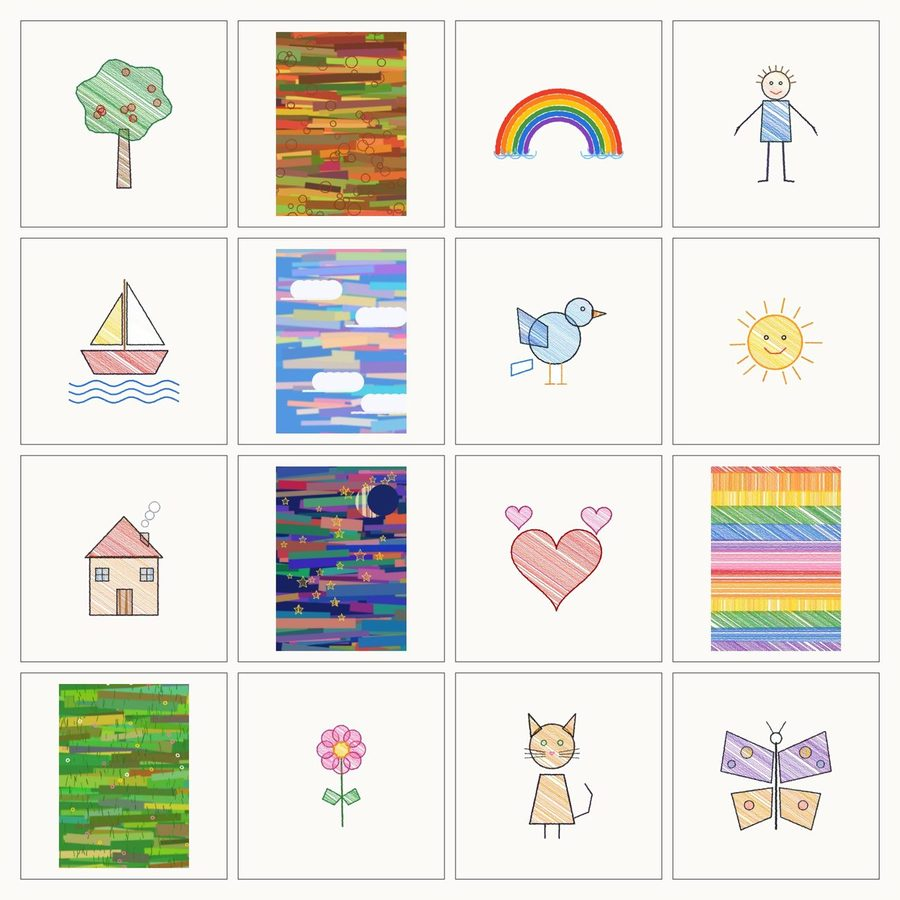
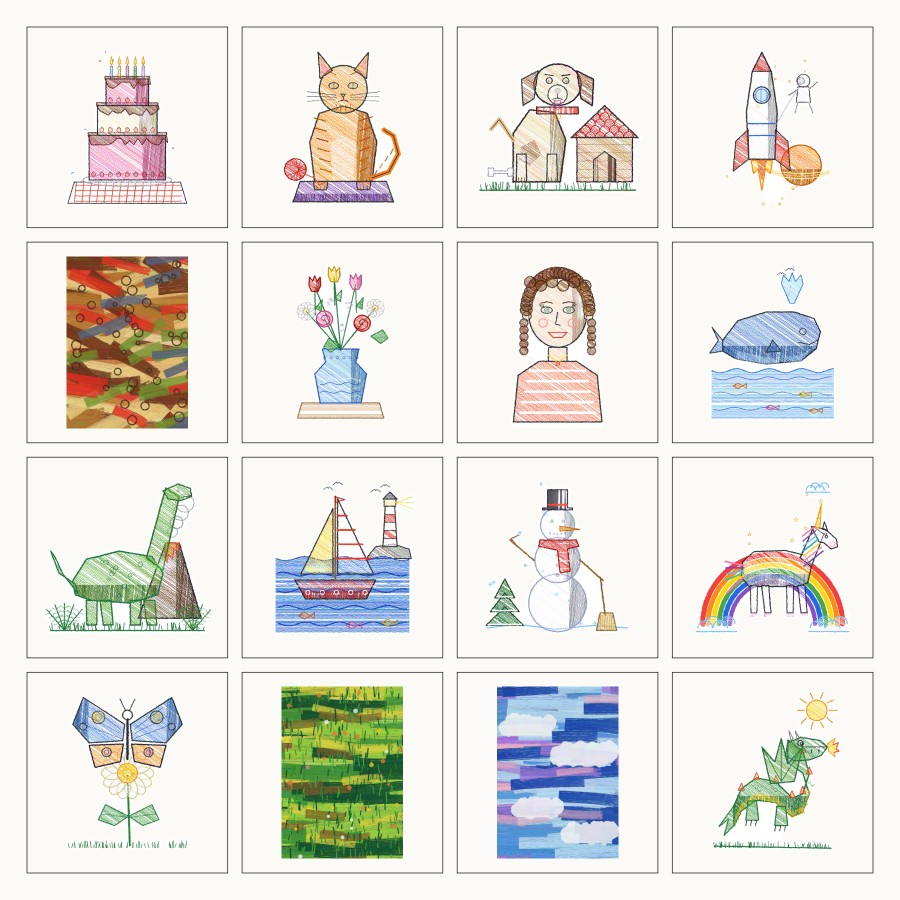
Accueil : les sept styles illustrés avec les dessins de la vidéo ; toile conseillée mieux dimensionnée
- les images d'exemple des sept styles sont recomposées avec les dessins
  de la vidéo « ordinateur » (dragon, voilier et phare, licorne, château,
  fusée…, pages peintes), tous les dessins posés, toiles Cultura ;
- toile conseillée : la surface idéale compte aussi la place de toutes
  les découpes (et plus seulement le papier de fond, que la peinture
  complète) ; les styles à format propre prennent la toile Cultura la
  plus proche sans jamais la prendre plus petite que leur besoin.

Claude-Session: https://claude.ai/code/session_016gFESkuH8R1BfGgUe59ViC

diff --git a/landing/index.html b/landing/index.html
@@ -407,12 +407,12 @@
           <p>Chaque import donne sept propositions, toujours avec tous les dessins. Choisissez-en une, puis faites-la vôtre.</p>
         </div>
         <div class="styles">
-          <figure class="style"><img src="img/oeuvre-paysage.jpg" width="900" height="633" loading="lazy" decoding="async" alt="Tableau de dessins d’enfants, composition Paysage : ciel, milieu et sol"><div><b>Paysage</b><span>ciel, milieu, sol</span></div></figure>
-          <figure class="style"><img src="img/oeuvre-frise.jpg" width="900" height="630" loading="lazy" decoding="async" alt="Tableau de dessins d’enfants, composition Frise : les dessins à la suite, en bande"><div><b>Frise</b><span>une bande, les dessins à la suite</span></div></figure>
-          <figure class="style"><img src="img/oeuvre-nuage.jpg" width="900" height="630" loading="lazy" decoding="async" alt="Tableau de dessins d’enfants, composition Nuage : dispersés sur un fond uni"><div><b>Nuage</b><span>dispersés sur un fond uni</span></div></figure>
-          <figure class="style"><img src="img/oeuvre-tournesol.jpg" width="900" height="633" loading="lazy" decoding="async" alt="Tableau de dessins d’enfants, composition Tournesol : en spirale depuis le cœur"><div><b>Tournesol</b><span>spirale depuis le cœur</span></div></figure>
-          <figure class="style"><img src="img/oeuvre-courtepointe.jpg" width="900" height="633" loading="lazy" decoding="async" alt="Tableau de dessins d’enfants, composition Courtepointe : en patchwork"><div><b>Courtepointe</b><span>patchwork, un médaillon par carreau</span></div></figure>
-          <figure class="style"><img src="img/oeuvre-cabinet.jpg" width="900" height="633" loading="lazy" decoding="async" alt="Tableau de dessins d’enfants, composition Cabinet de curiosités : en rangées"><div><b>Cabinet de curiosités</b><span>les plus beaux, en rangées</span></div></figure>
+          <figure class="style"><img src="img/oeuvre-paysage.jpg" width="900" height="585" loading="lazy" decoding="async" alt="Tableau de dessins d’enfants, composition Paysage : ciel, milieu et sol"><div><b>Paysage</b><span>ciel, milieu, sol</span></div></figure>
+          <figure class="style"><img src="img/oeuvre-frise.jpg" width="900" height="300" loading="lazy" decoding="async" alt="Tableau de dessins d’enfants, composition Frise : les dessins à la suite, en bande"><div><b>Frise</b><span>une bande, les dessins à la suite</span></div></figure>
+          <figure class="style"><img src="img/oeuvre-nuage.jpg" width="900" height="585" loading="lazy" decoding="async" alt="Tableau de dessins d’enfants, composition Nuage : dispersés sur un fond uni"><div><b>Nuage</b><span>dispersés sur un fond uni</span></div></figure>
+          <figure class="style"><img src="img/oeuvre-tournesol.jpg" width="900" height="585" loading="lazy" decoding="async" alt="Tableau de dessins d’enfants, composition Tournesol : en spirale depuis le cœur"><div><b>Tournesol</b><span>spirale depuis le cœur</span></div></figure>
+          <figure class="style"><img src="img/oeuvre-courtepointe.jpg" width="900" height="585" loading="lazy" decoding="async" alt="Tableau de dessins d’enfants, composition Courtepointe : en patchwork"><div><b>Courtepointe</b><span>patchwork, un médaillon par carreau</span></div></figure>
+          <figure class="style"><img src="img/oeuvre-cabinet.jpg" width="900" height="672" loading="lazy" decoding="async" alt="Tableau de dessins d’enfants, composition Cabinet de curiosités : en rangées"><div><b>Cabinet de curiosités</b><span>les plus beaux, en rangées</span></div></figure>
           <figure class="style"><img src="img/oeuvre-galerie.jpg" width="900" height="900" loading="lazy" decoding="async" alt="Tableau de dessins d’enfants, composition Galerie : un dessin par cadre"><div><b>Galerie</b><span>un dessin par cadre</span></div></figure>
         </div>
       </div>

diff --git a/collage/js/app.js b/collage/js/app.js
@@ -1532,9 +1532,12 @@
     if (!state.drawings.length) return;
     sel.value = 'auto:1.4286';
     planCoverage();
-    const ideal = Math.max(900, state.canvasArea || 7000);
-    const m = state.bgMin || { long: 0, short: 0 };
     const density = Number($('density').value);
+    // surface idéale : celle du plan automatique, et au moins de quoi poser toutes les découpes
+    // (environ la moitié de la toile, selon le curseur) quand il n'y a que peu de pages de fond
+    const idealPieces = paperAreas(state.drawings).pieceArea / Math.max(0.2, 0.5 * density);
+    const ideal = Math.max(900, state.canvasArea || 0, idealPieces);
+    const m = state.bgMin || { long: 0, short: 0 };
     const portrait = canvasOrient() === 'port';
     let best = null;
     const tried = new Set();
@@ -1549,18 +1552,20 @@
       const { bgArea, pieceArea } = paperAreas(state.drawings);
       const cov = bgArea / area, pieces = pieceArea / area;
       let pen = 0;
-      // fond : il faut du papier (sinon la toile se voit), le mieux est un chevauchement d'un tiers
-      if (bgArea > 0) { if (cov < 1.05) pen += 6 + (1.05 - cov) * 10; else if (cov < 1.2) pen += 1.5; else pen += Math.max(0, cov - 2.2) * 0.8; }
+      // taille : d'abord proche de la surface idéale à taille réelle (planCoverage, qui équilibre déjà
+      // le papier de fond, les découpes et le curseur) ; la peinture de fond comble ce que le papier
+      // ne couvre pas, une toile plus grande que le papier n'est donc pas une faute
+      pen += Math.abs(Math.log(area / ideal)) * 2.5;
       // découpes : environ la moitié de la toile (curseur), ni entassées ni perdues
       const want = 0.45 * density;
-      pen += Math.abs(Math.log(Math.max(0.02, pieces) / want)) * 1.6;
+      pen += Math.abs(Math.log(Math.max(0.02, pieces) / want)) * 0.8;
+      // fond : très peu de papier pour la toile (la peinture domine), ou beaucoup trop (pages gâchées)
+      if (bgArea > 0) { if (cov < 0.5) pen += 1; else if (cov > 2.5) pen += 0.5; }
       // la plus grande page de fond doit tenir entière
       if (m.long > Math.max(w, h) + 0.5 || m.short > Math.min(w, h) + 0.5) pen += 3;
       // proportion : classique (1,3 à 1,5) en tête, carrée ensuite, bande en dernier
       const r = Math.max(w, h) / Math.min(w, h);
       pen += r > 1.6 ? (r - 1.6) * 1.2 + 0.3 : r < 1.2 ? 0.25 : 0;
-      // taille : proche de la surface idéale à taille réelle
-      pen += Math.abs(Math.log(area / ideal)) * 0.9;
       // gamme : châssis courants d'abord
       pen += t[0] === 'classique' ? 0.2 : 0;
       if (!best || pen < best.pen) best = { v, pen };
@@ -1777,7 +1782,10 @@
     let best = null;
     CULTURA.forEach((t) => {
       const w = land ? t[1] : t[2], h = land ? t[2] : t[1];
-      const pen = Math.abs(Math.log((w * h) / (f.w * f.h))) + Math.abs(Math.log((w / h) / (f.w / f.h))) * 1.5 + (t[0] === 'classique' ? 0.1 : 0);
+      // (une toile plus petite que le format calculé coûte plus cher qu'une plus grande : les
+      // dessins, à taille réelle, ont besoin de place)
+      const la = Math.log((w * h) / (f.w * f.h));
+      const pen = (la < 0 ? -la * 2.5 : la) + Math.abs(Math.log((w / h) / (f.w / f.h))) * 1.5 + (t[0] === 'classique' ? 0.1 : 0);
       if (!best || pen < best.pen) best = { w, h, pen };
     });
     return { w: best.w, h: best.h, auto: false, advised: true };
